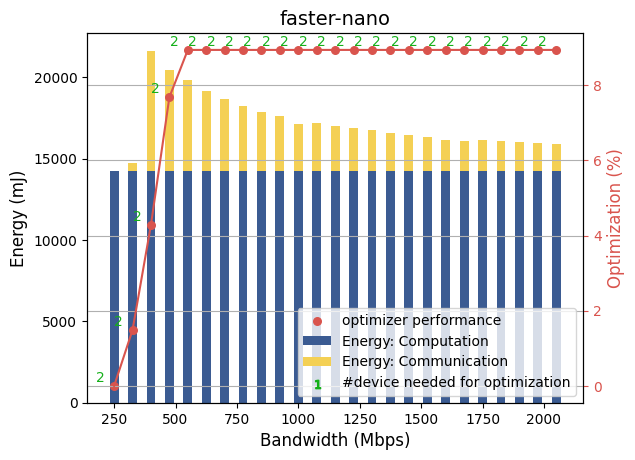
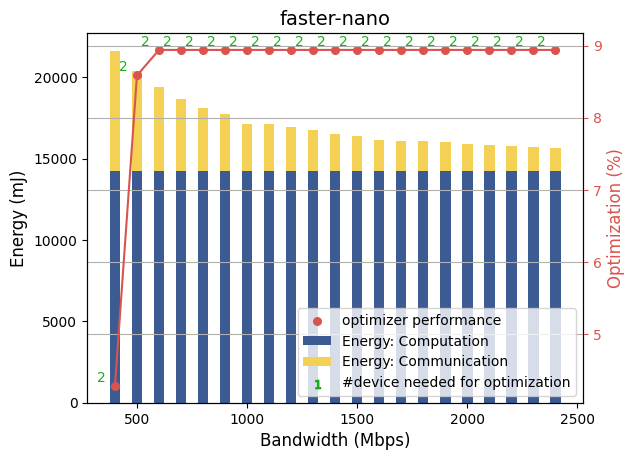
add plot battery; reorganize files

diff --git a/PLT_battery/PYPLT_battery.py b/PLT_battery/PYPLT_battery.py
@@ -1,0 +1,75 @@
+import numpy as np
+import pandas as pd
+import matplotlib.pyplot as plt
+import seaborn as sns
+from tqdm import tqdm
+from opt_wrapper import OPT_WRAPPER
+
+def draw(config):
+    baseBattery = {
+        'faster-agx':   1,
+        'yolor-agx':    1,
+        'yolox-agx':    1,
+        'yolov4-agx':   1,
+        'faster-nano':  1,
+        'yolor-nano':   1,
+        'yolox-nano':   1,
+        'yolov4-nano':  1,
+    }
+
+    baseE = {
+        'faster-agx': 0,
+        'yolor-agx': 0,
+        'yolox-agx': 0,
+        'yolov4-agx': 0,
+        'faster-nano': 14213.7446,
+        'yolor-nano': 10447.9559,
+        'yolox-nano': 13460.1792,
+        'yolov4-nano': 9055.3908,
+    }
+
+    fig, ax1 = plt.subplots()
+    df_file = pd.read_csv(f"../data/{config}.csv")
+    x1_list = []
+    for i in df_file['bandwidth']:
+        x1_list.append(i)
+
+    line1 = ax1.plot(df_file['bandwidth'], baseBattery[config]*df_file['device']/(baseE[config]+df_file['energy']),
+                     color=sns.xkcd_rgb["pale red"],
+                     linestyle='-',
+                     label='battery life')
+    p1 = ax1.scatter(df_file['bandwidth'], baseBattery[config]*df_file['device']/(baseE[config]+df_file['energy']),
+                     color=sns.xkcd_rgb["pale red"],
+                     marker='o',
+                     s=30,
+                     label='battery life')
+
+    for i, j, d in zip(df_file['bandwidth'], baseBattery[config]*df_file['device']/(baseE[config]+df_file['energy']), df_file["device"]):
+        ax1.annotate('%s' % d, xy=(i, j), xytext=(-7, 3), textcoords='offset points', color=sns.xkcd_rgb["green"])
+
+    note = ax1.scatter([], [], marker='$1$', color=sns.xkcd_rgb["green"], label="#device needed for optimization")
+    baseline = ax1.hlines(y=baseBattery[config]/baseE[config], color=sns.xkcd_rgb["denim blue"], linestyle='-', xmin=x1_list[0], xmax=x1_list[-1], label="base battery life")
+
+    # ax2.set_ylim([0, 15])
+    ax1.set_xlabel("Bandwidth (Mbps)", fontsize=12)
+    ax1.set_ylabel("Battery life", fontsize=12)
+    ax1.set_title(f"{config}", fontsize=14)
+    ax1.ticklabel_format(style='sci', scilimits=(-3, 5))
+
+    # 双Y轴标签颜色设置
+    ax1.yaxis.label.set_color('black')
+
+    # 双Y轴刻度颜色设置
+    ax1.tick_params(axis='y', colors='black')
+
+    # 图例设置
+    plt.legend(handles=[p1, note, baseline], loc=(1.04, 0))
+    plt.grid()
+    plt.savefig(f"{config}.png", bbox_inches='tight', dpi=100)
+
+
+if __name__ == "__main__":
+    configs = OPT_WRAPPER.configs
+
+    for config in tqdm(configs):
+        draw(config)

diff --git a/opt_wrapper.py b/opt_wrapper.py
@@ -49,7 +49,7 @@ class OPT_WRAPPER(object):
             {'yolox': [*range(250, 4500, 150)],
              'yolor': [*range(250, 4500, 150)],
              'yolov4': [*range(250, 8000, 250)],
-             'faster': [*range(250, 2125, 75)]},
+             'faster': [*range(400, 2500, 100)]},
     }
 
     def __init__(self, config, bandwidth_list=None, threshold=0.99):
@@ -184,7 +184,7 @@ def driver(config, threshold):
     opt_wrapper.optimize()
     res = opt_wrapper.report()
 
-    with open(f'PLT_energy/{config}.csv', 'w') as f:
+    with open(f'data/{config}.csv', 'w') as f:
         f.write(f"bandwidth,optimizer,energy,device,payload\n")
         for i in range(len(res['bandwidths'])):
             f.write(f"{res['bandwidths'][i]},{res['opt_speedup_rate'][i]},0,{res['opt_num_devices'][i]},{res['payload'][i]}\n")

diff --git a/power-infer.py b/power-infer.py
@@ -20,7 +20,7 @@ class EnergyInferer(object):
 
     def get_path(self, config):
         path = os.path.abspath(os.getcwd())
-        return os.path.join(path, f"PLT_energy/{config}.csv")
+        return os.path.join(path, f"data/{config}.csv")
 
     def predict_POW(self, uplink_mbps, downlink_mbps):
         X = np.array([uplink_mbps, downlink_mbps]).reshape(1, 2)

diff --git a/PLT_energy/PYPLT_energy.py b/PLT_energy/PYPLT_energy.py
@@ -18,7 +18,7 @@ def draw(config):
     }
 
     fig, ax1 = plt.subplots()
-    df_year = pd.read_csv(f"{config}.csv")
+    df_year = pd.read_csv(f"../data/{config}.csv")
     x1_list = []
     for i in df_year['bandwidth']:
         x1_list.append(i)
